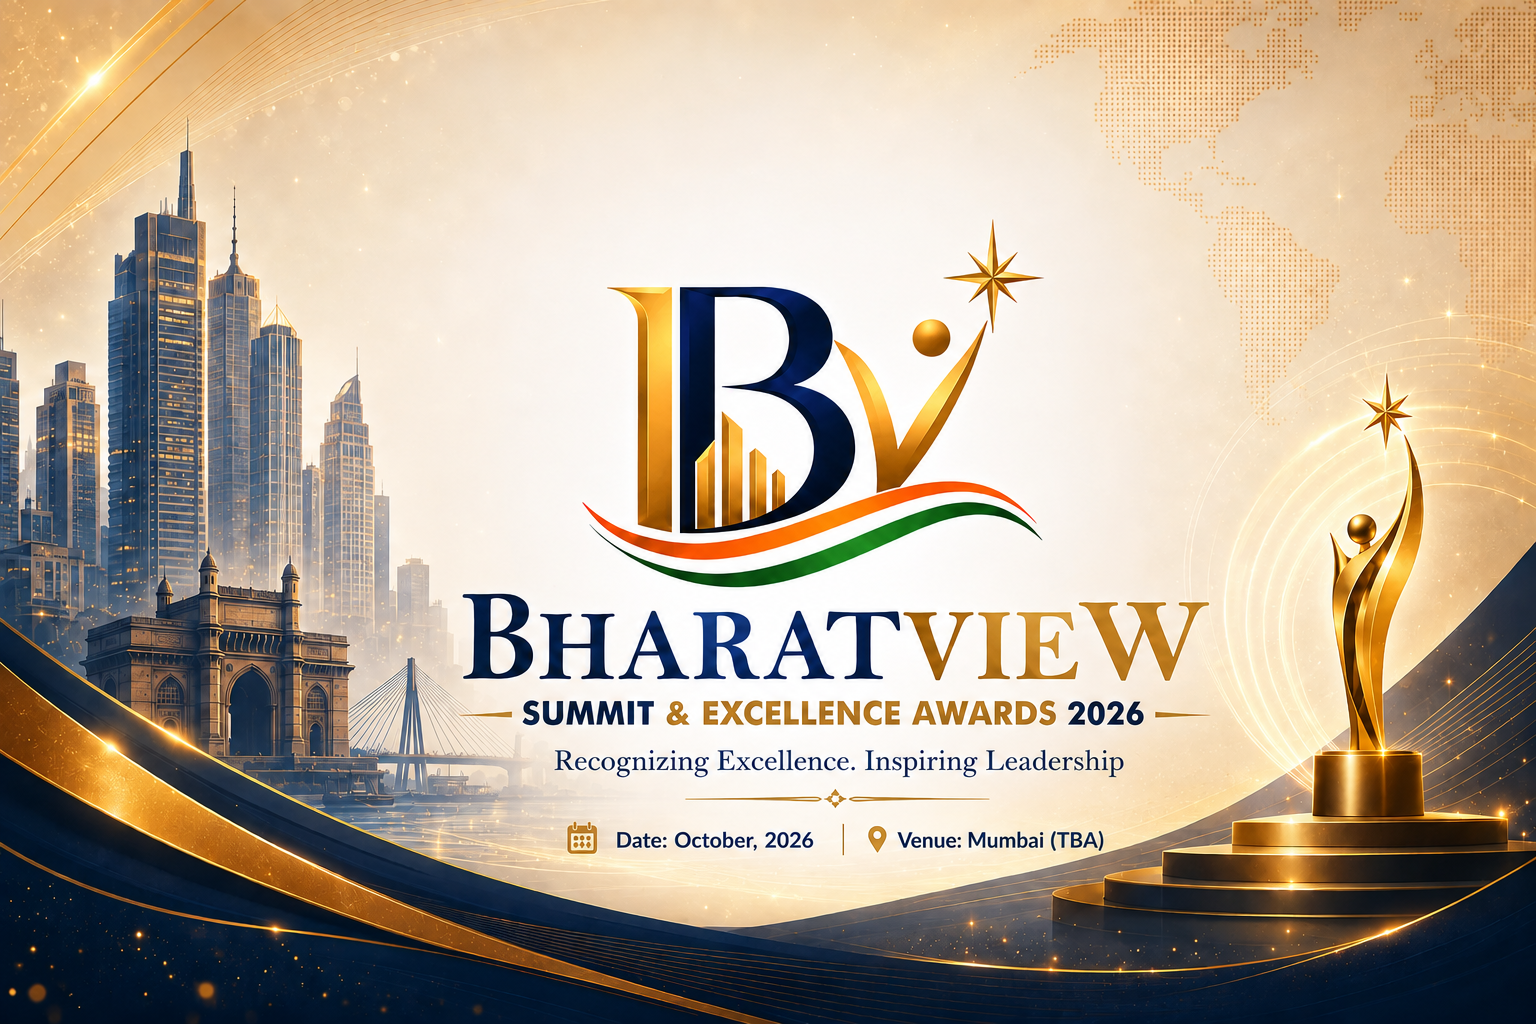
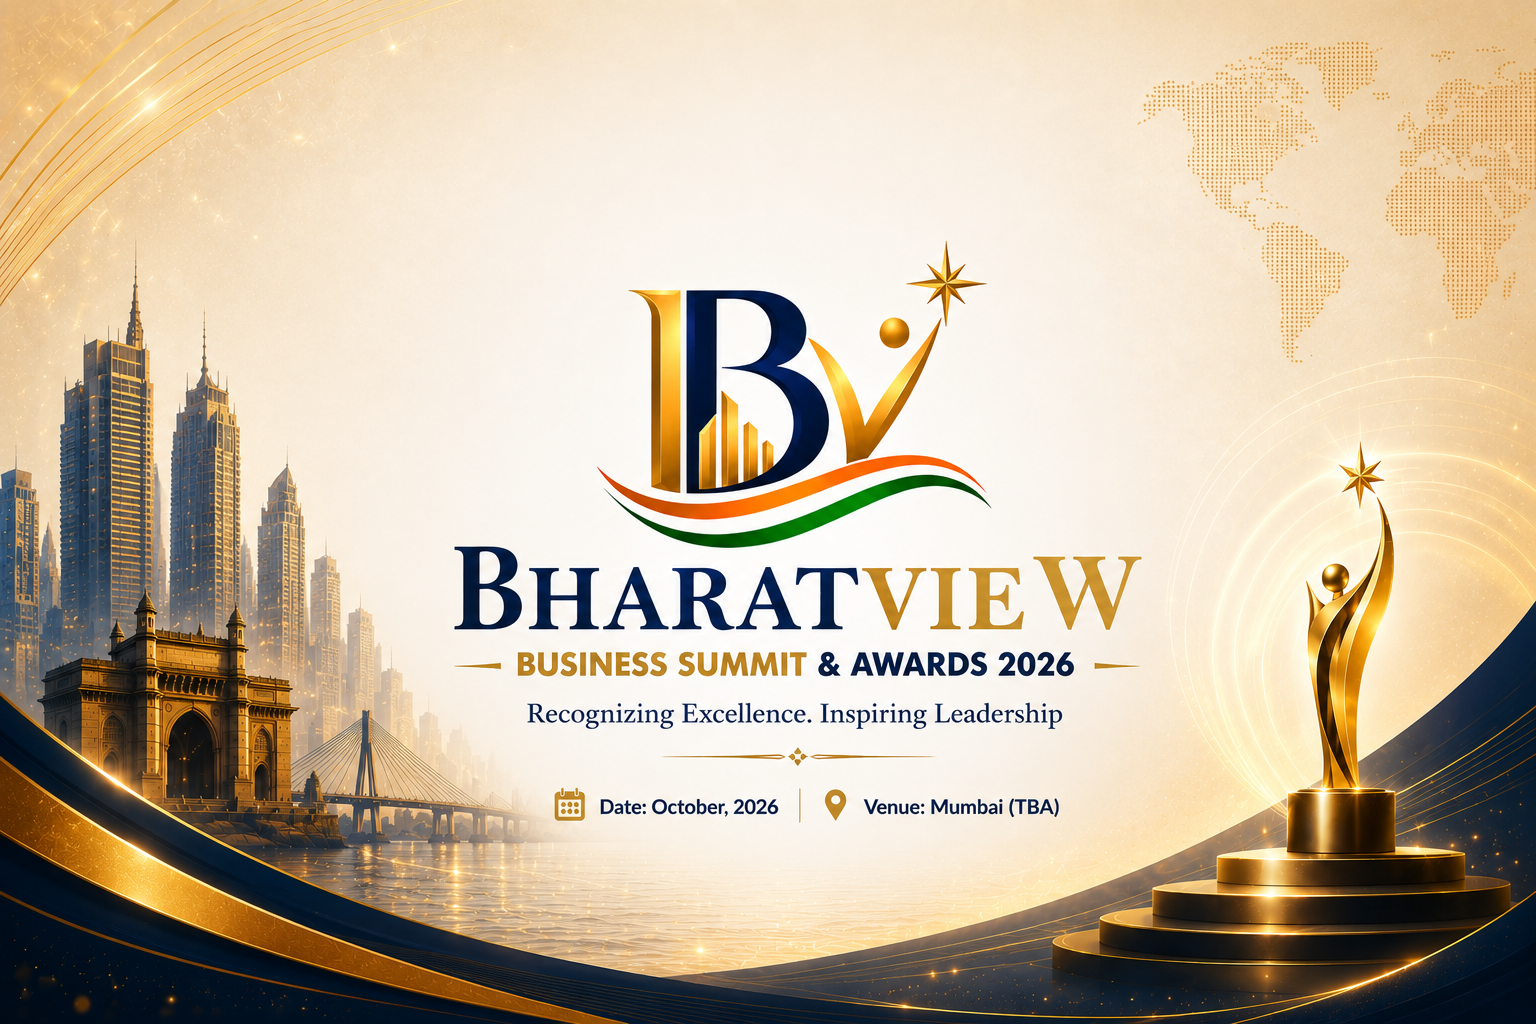
Update speaker details for EventTimeline and EventDetail components; modify Dr. Nitin Athavle's role and company affiliation. Replace finalBharat image with a new version for event promotion.

diff --git a/src/pages/EventDetail.tsx b/src/pages/EventDetail.tsx
@@ -179,8 +179,8 @@ const EventDetail: React.FC = () => {
   const speakers = [
     {
       name: 'Dr. Nitin Athavle',
-      role: 'Asst. Vice President – Purchase',
-      company: 'Kohinoor Group',
+      role: 'AVP',
+      company: 'Kohinoor Group & Planedge Consultants',
       image: '/member/WhatsApp%20Image%[phone redacted]%20at%[phone redacted]%20PM.jpeg'
     },
     {

diff --git a/src/components/EventTimeline.tsx b/src/components/EventTimeline.tsx
@@ -45,7 +45,7 @@ const timelinePhases: TimelinePhase[] = [
         title:
           'PANEL SESSION 1 - Real Estate 360°: Industry Titans on Growth, Innovation & the Road Ahead',
         bullets: [
-          'Dr. Adv. Nitin Athavle, AVP, Kohinoor Group',
+          'Dr. Nitin Athavle, AVP, Kohinoor Group & Planedge Consultants',
           'Dr. Adv. Harshul Savla, Managing Partner, M Realty (Suvidha Lifespaces), Best Selling Author, World Record Holder, TEDx Speaker',
           '... more to join'
         ]